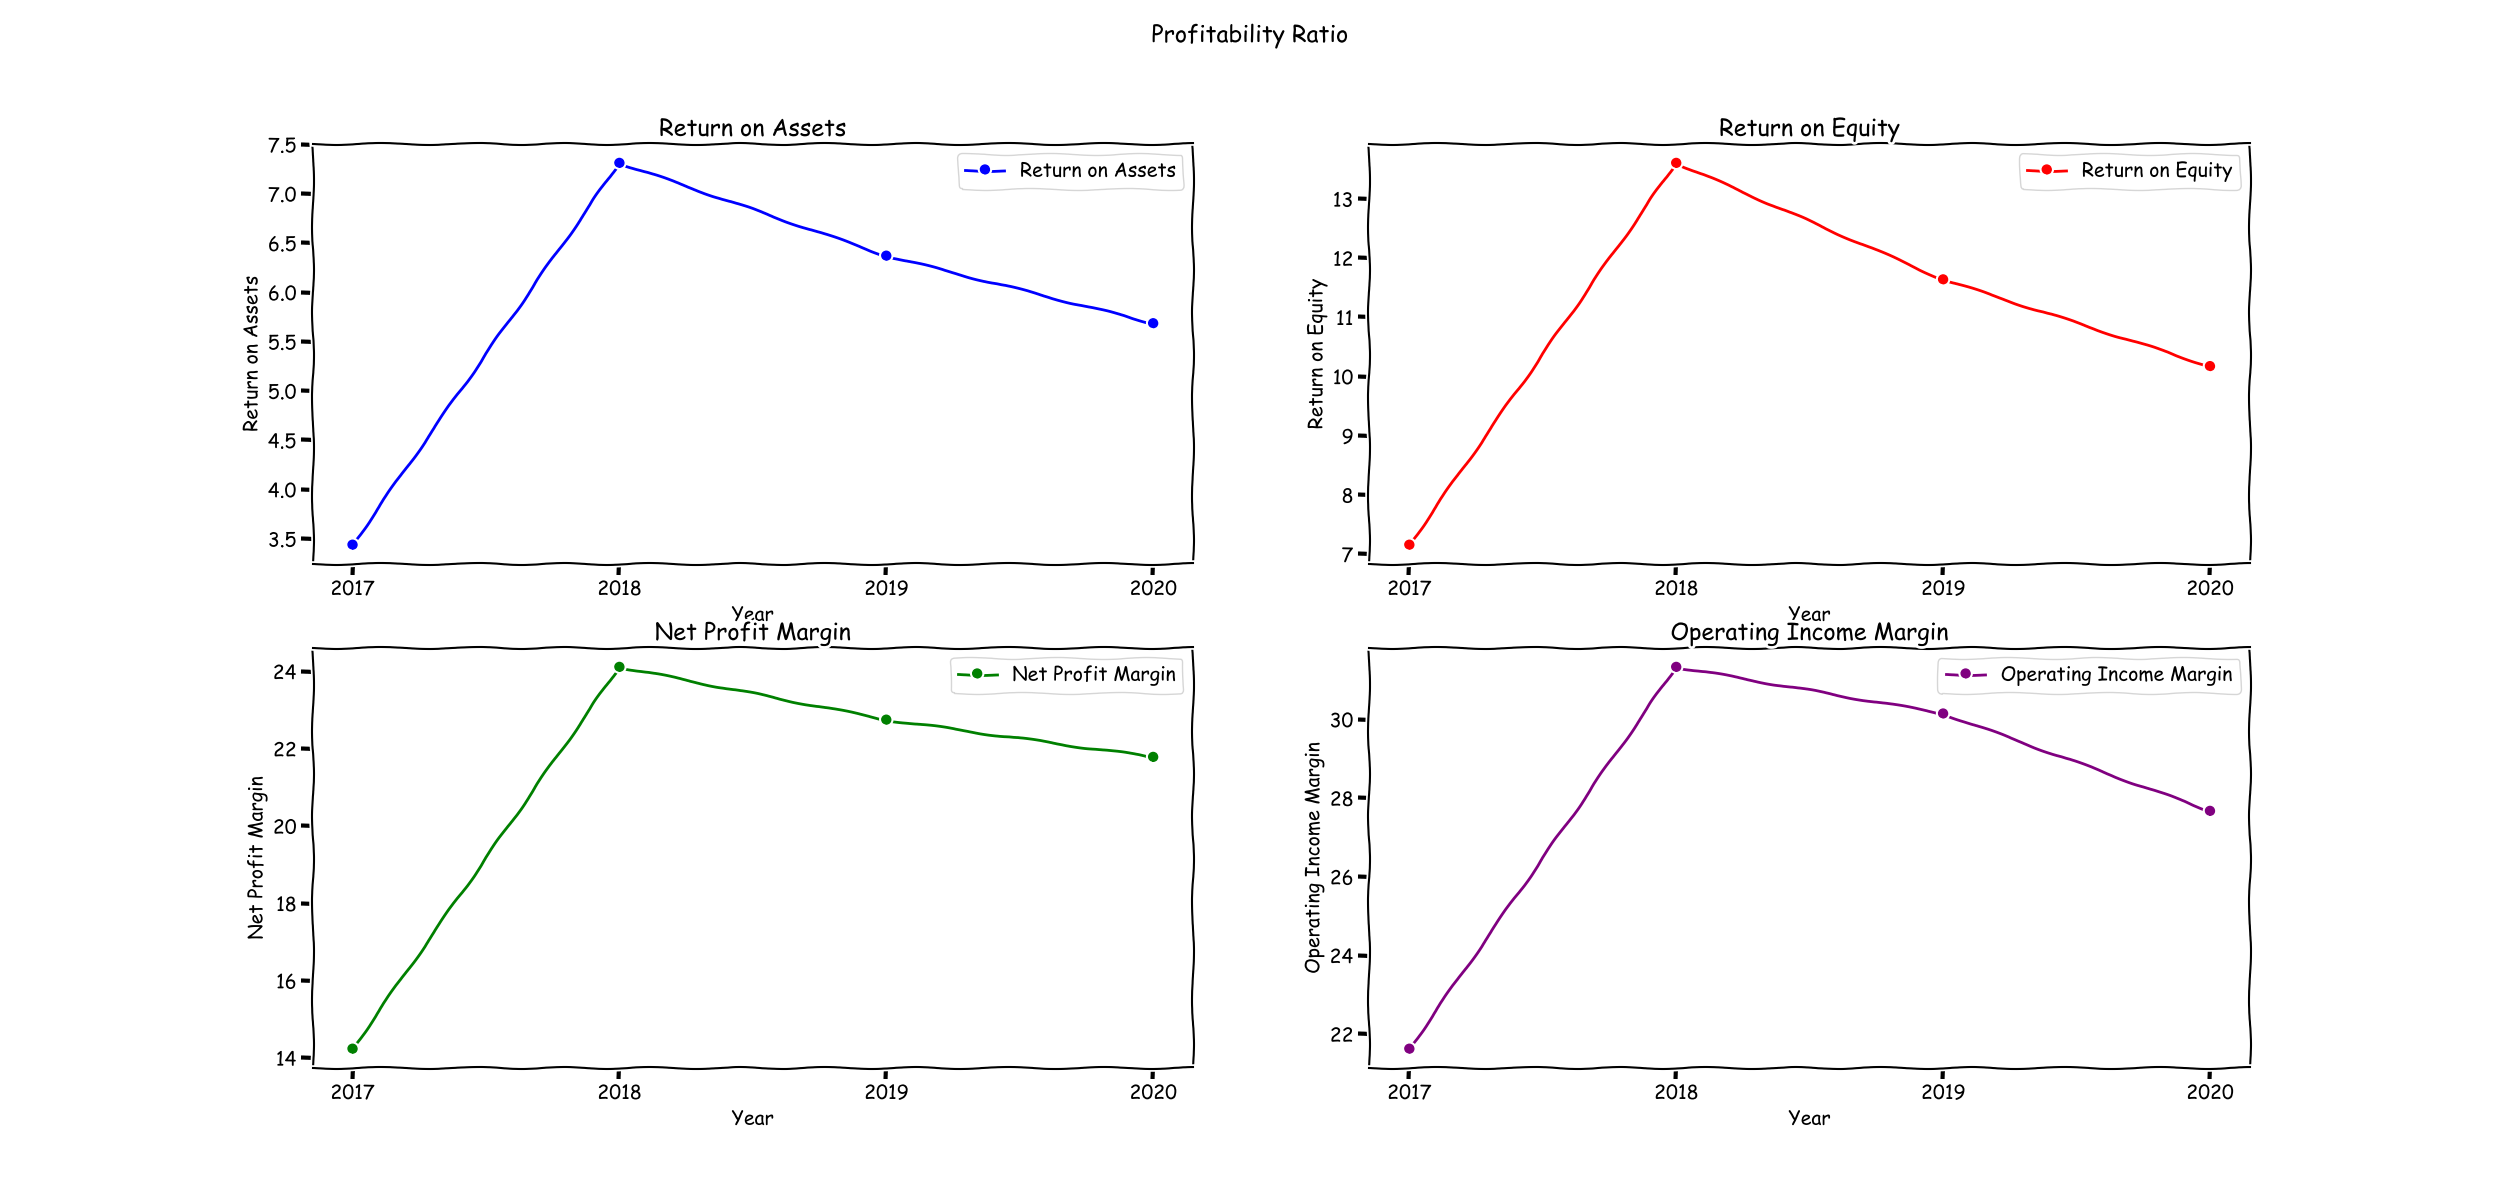
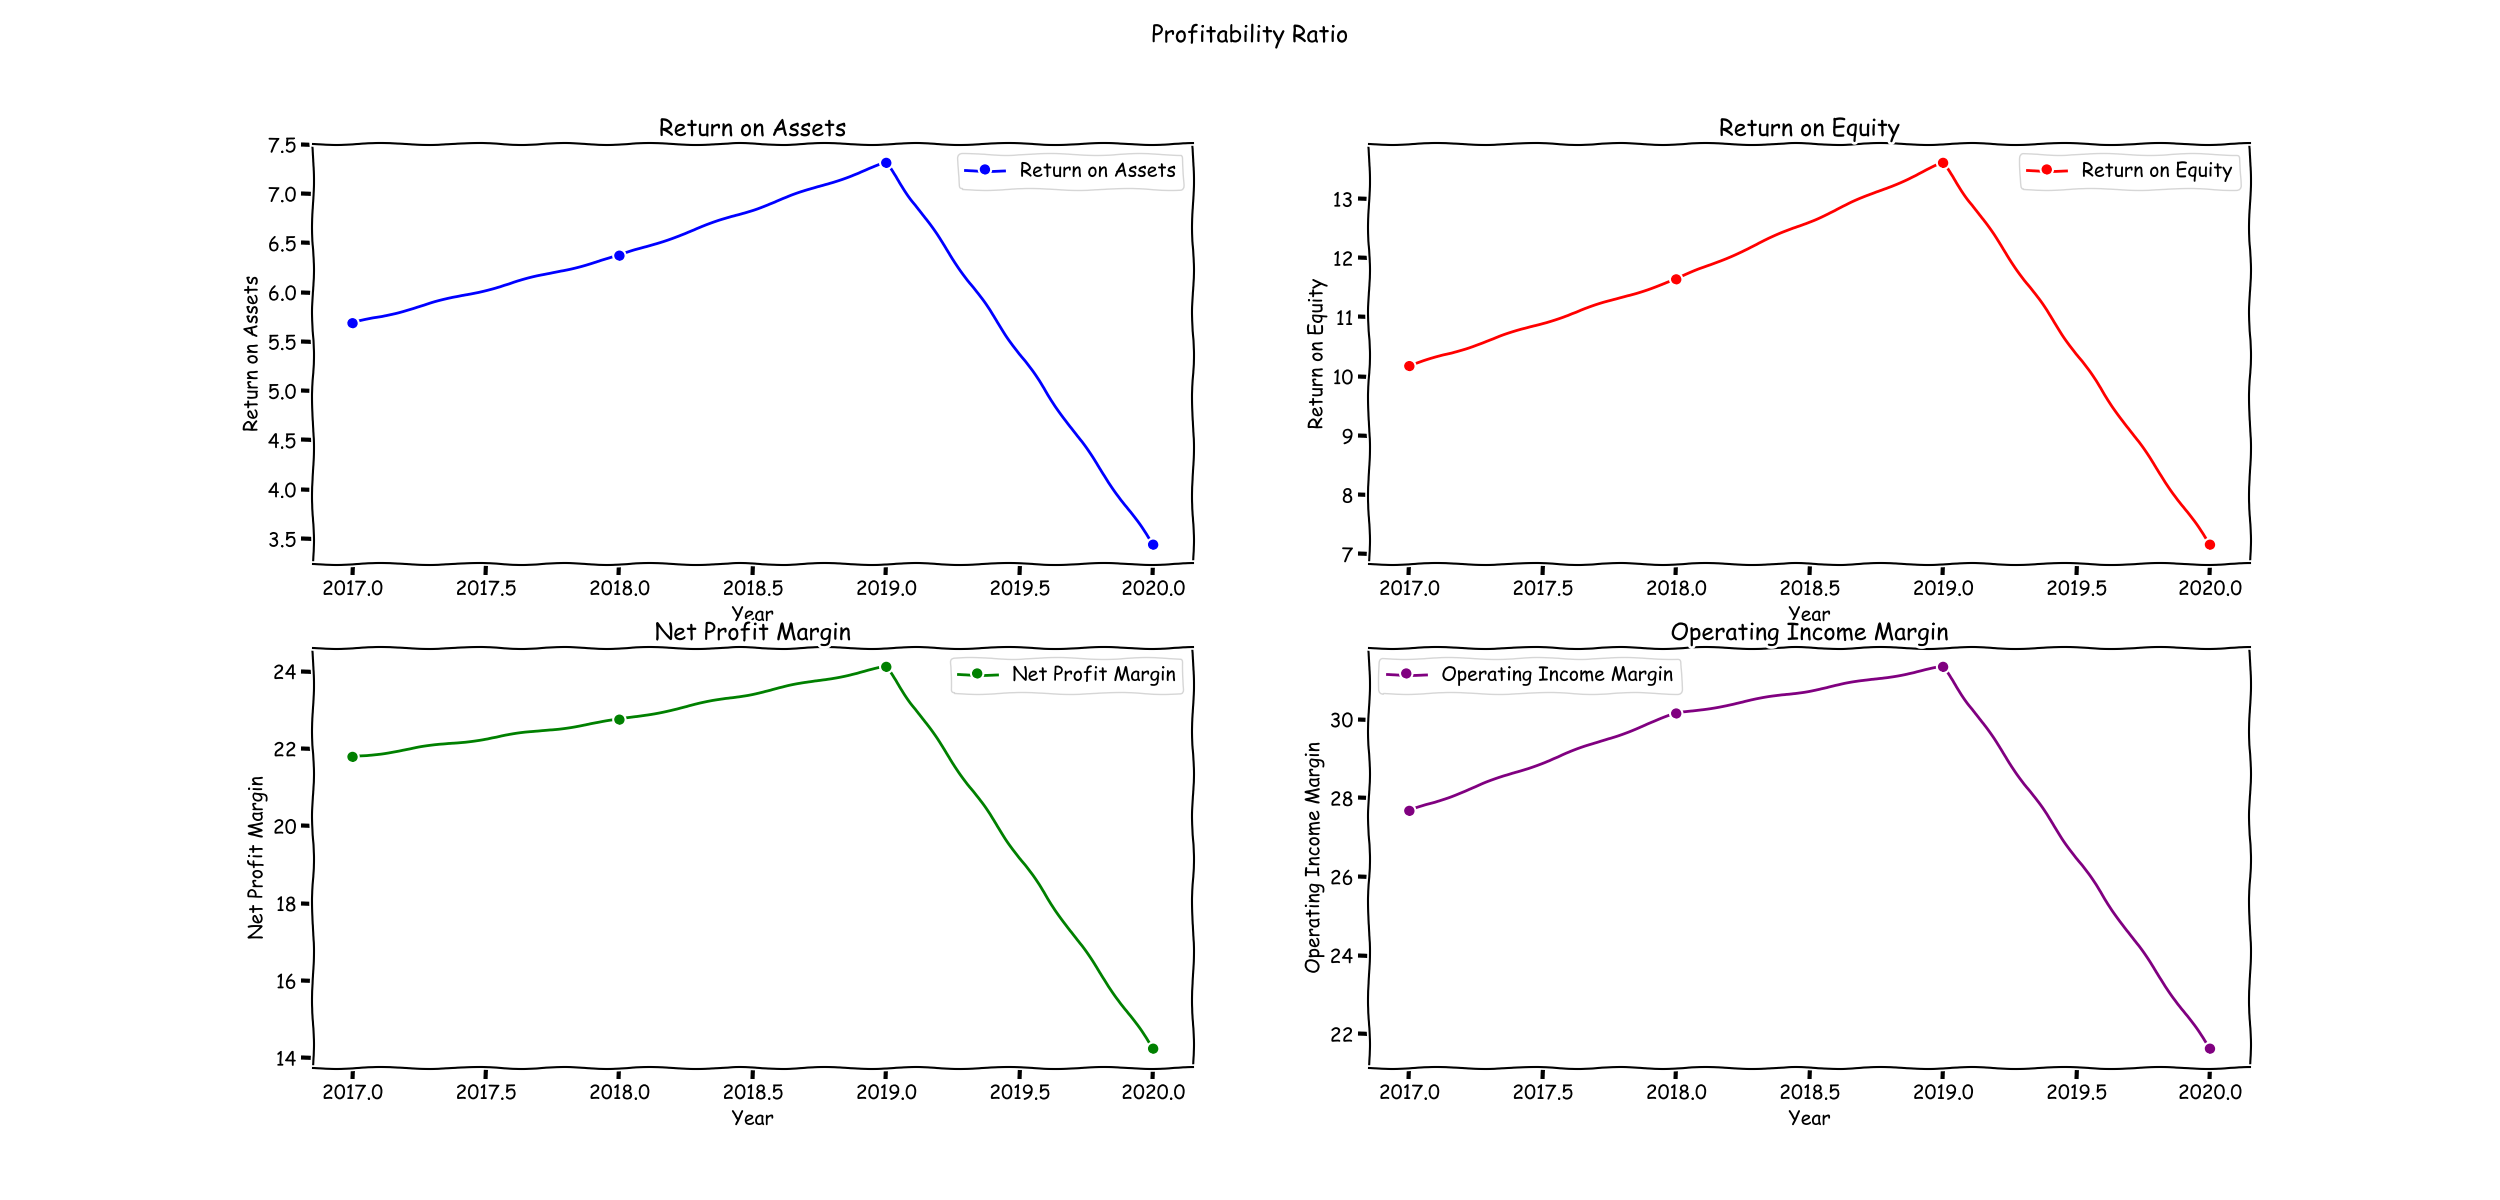
matplotlib adjusted
xaxis list matplotlib adjusted

diff --git a/Plotter.py b/Plotter.py
@@ -7,13 +7,15 @@ Purpose: plot
 import os
 from dataclasses import dataclass
 from matplotlib import pyplot as plt
+import numpy as np
+from datetime import date
 
 plt.xkcd()
 
 @dataclass
 class Plotter():
-
-    xaxis = ["2017", "2018", "2019", "2020"]
+    year = date.today().year
+    xaxis = [year - 1, year - 2, year - 3, year - 4]
 
     # Define path to store image
     source_path = os.path.dirname(__file__)
